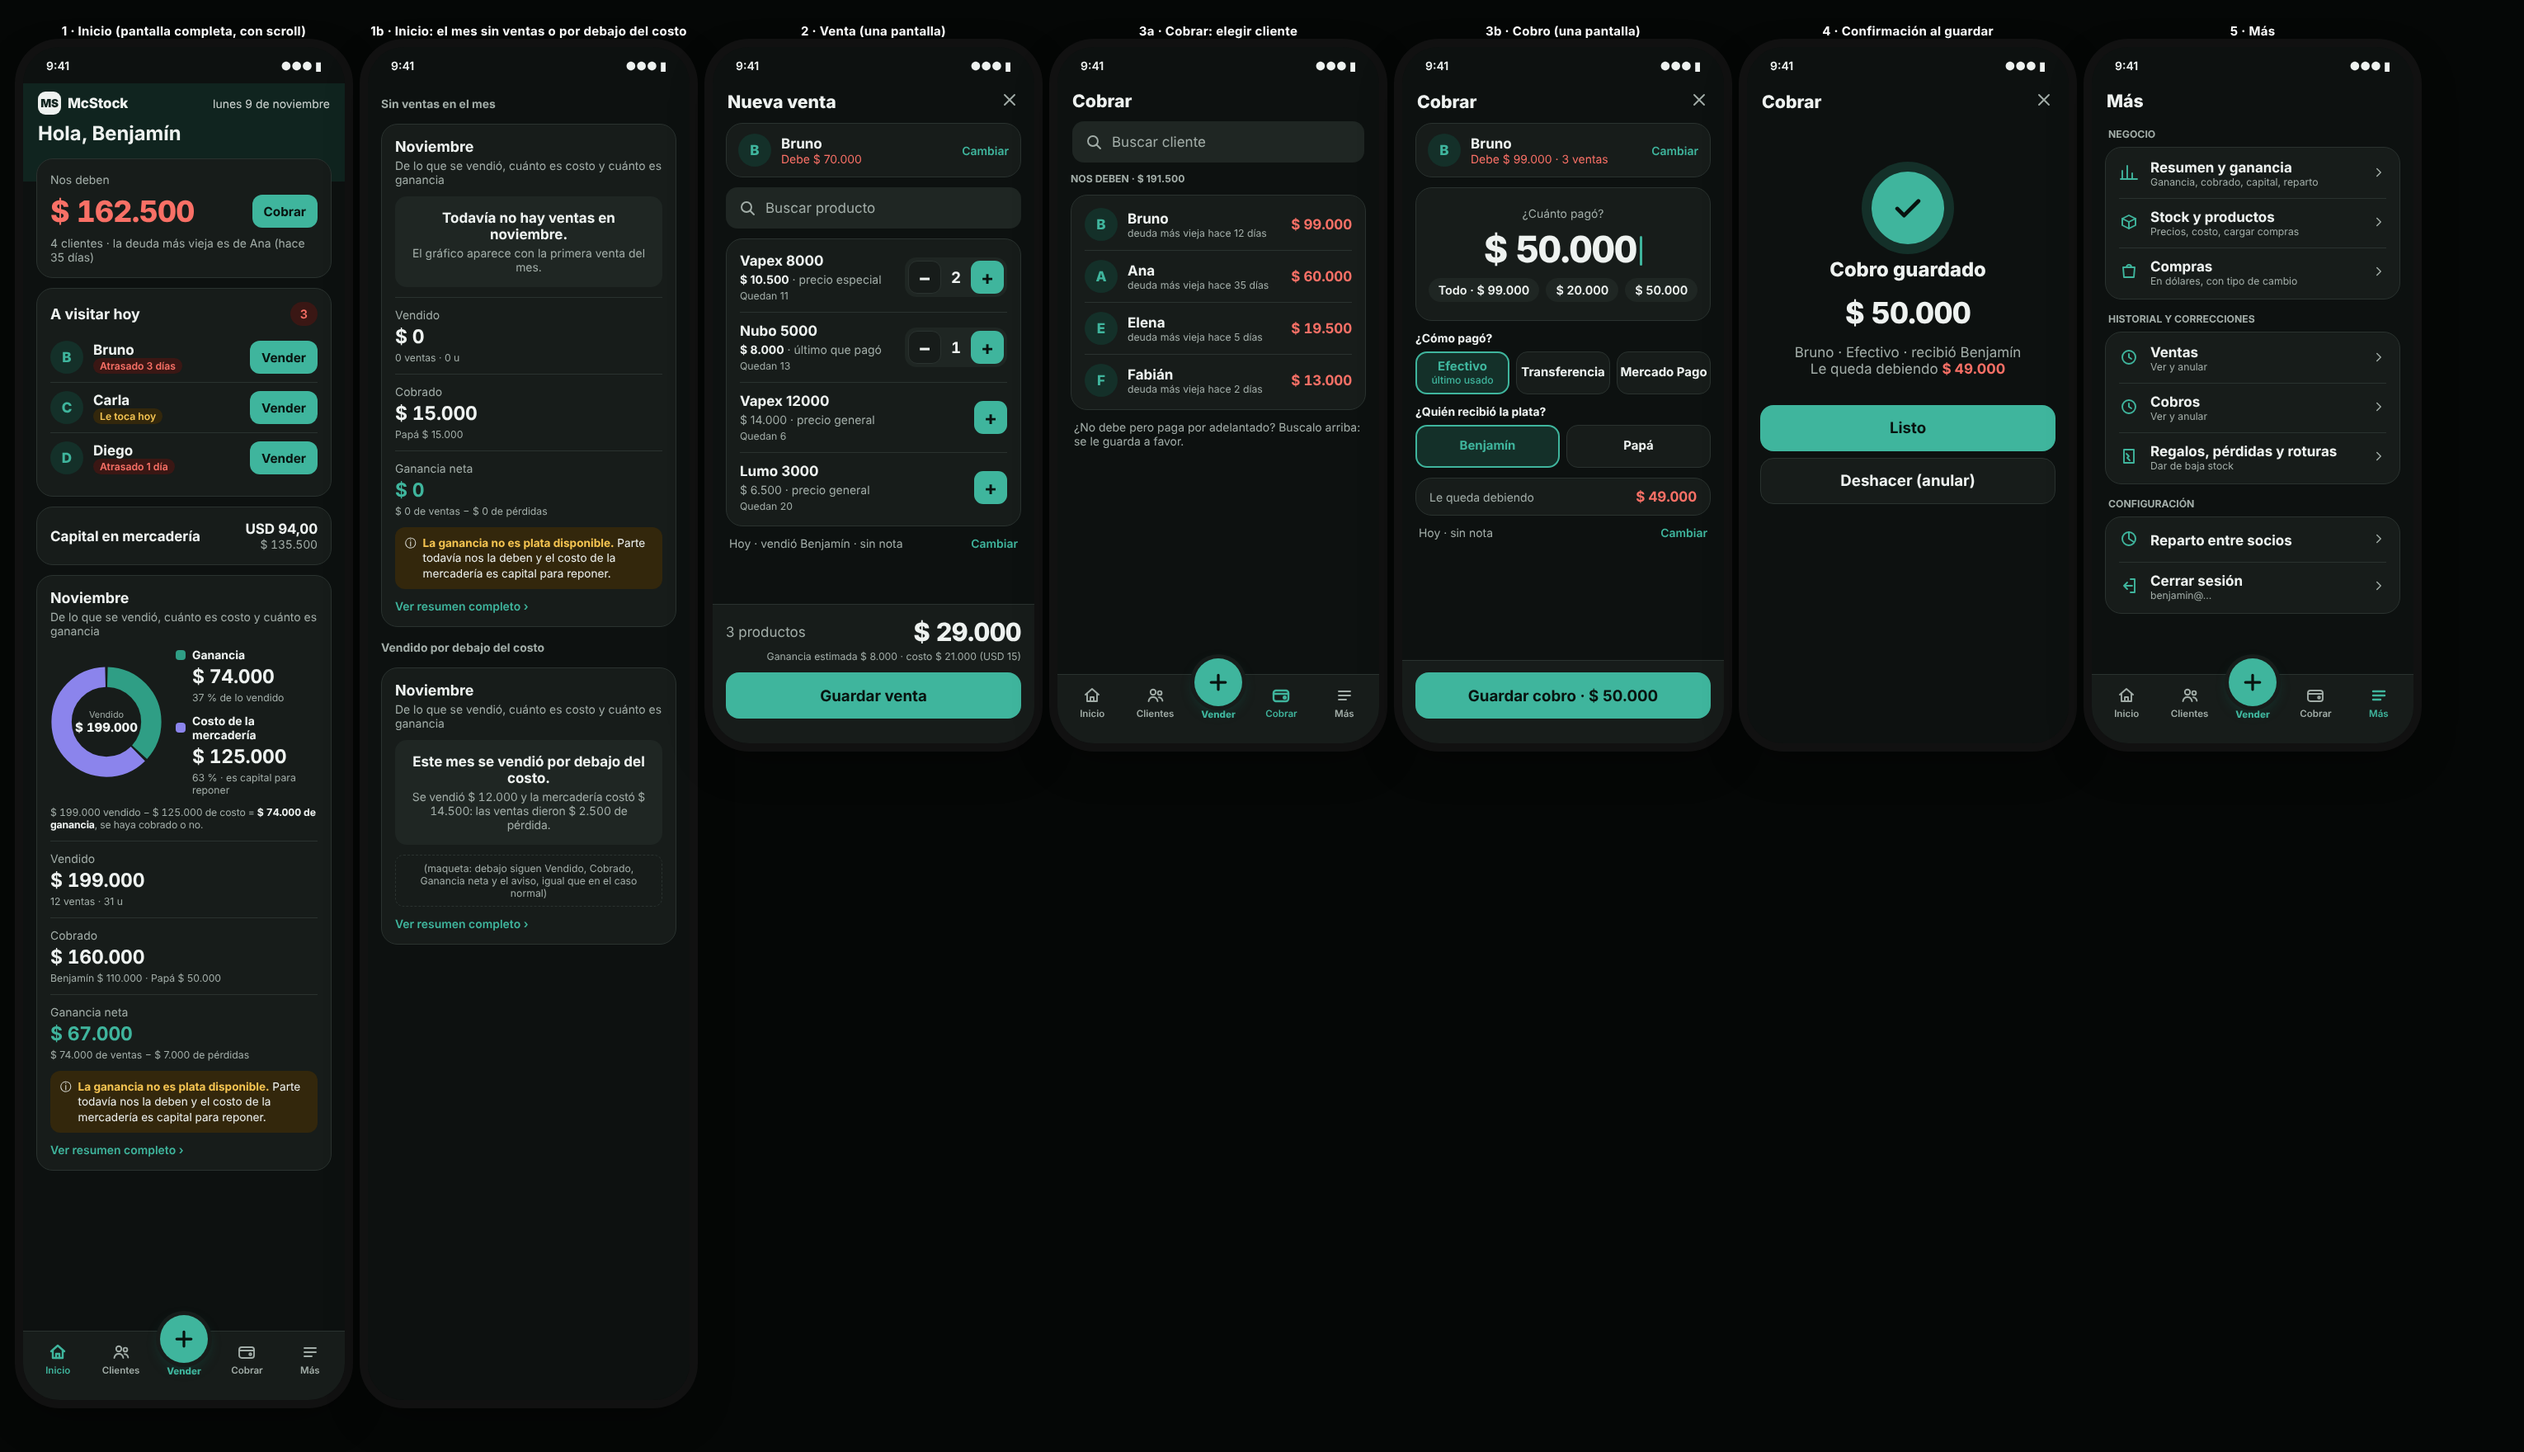
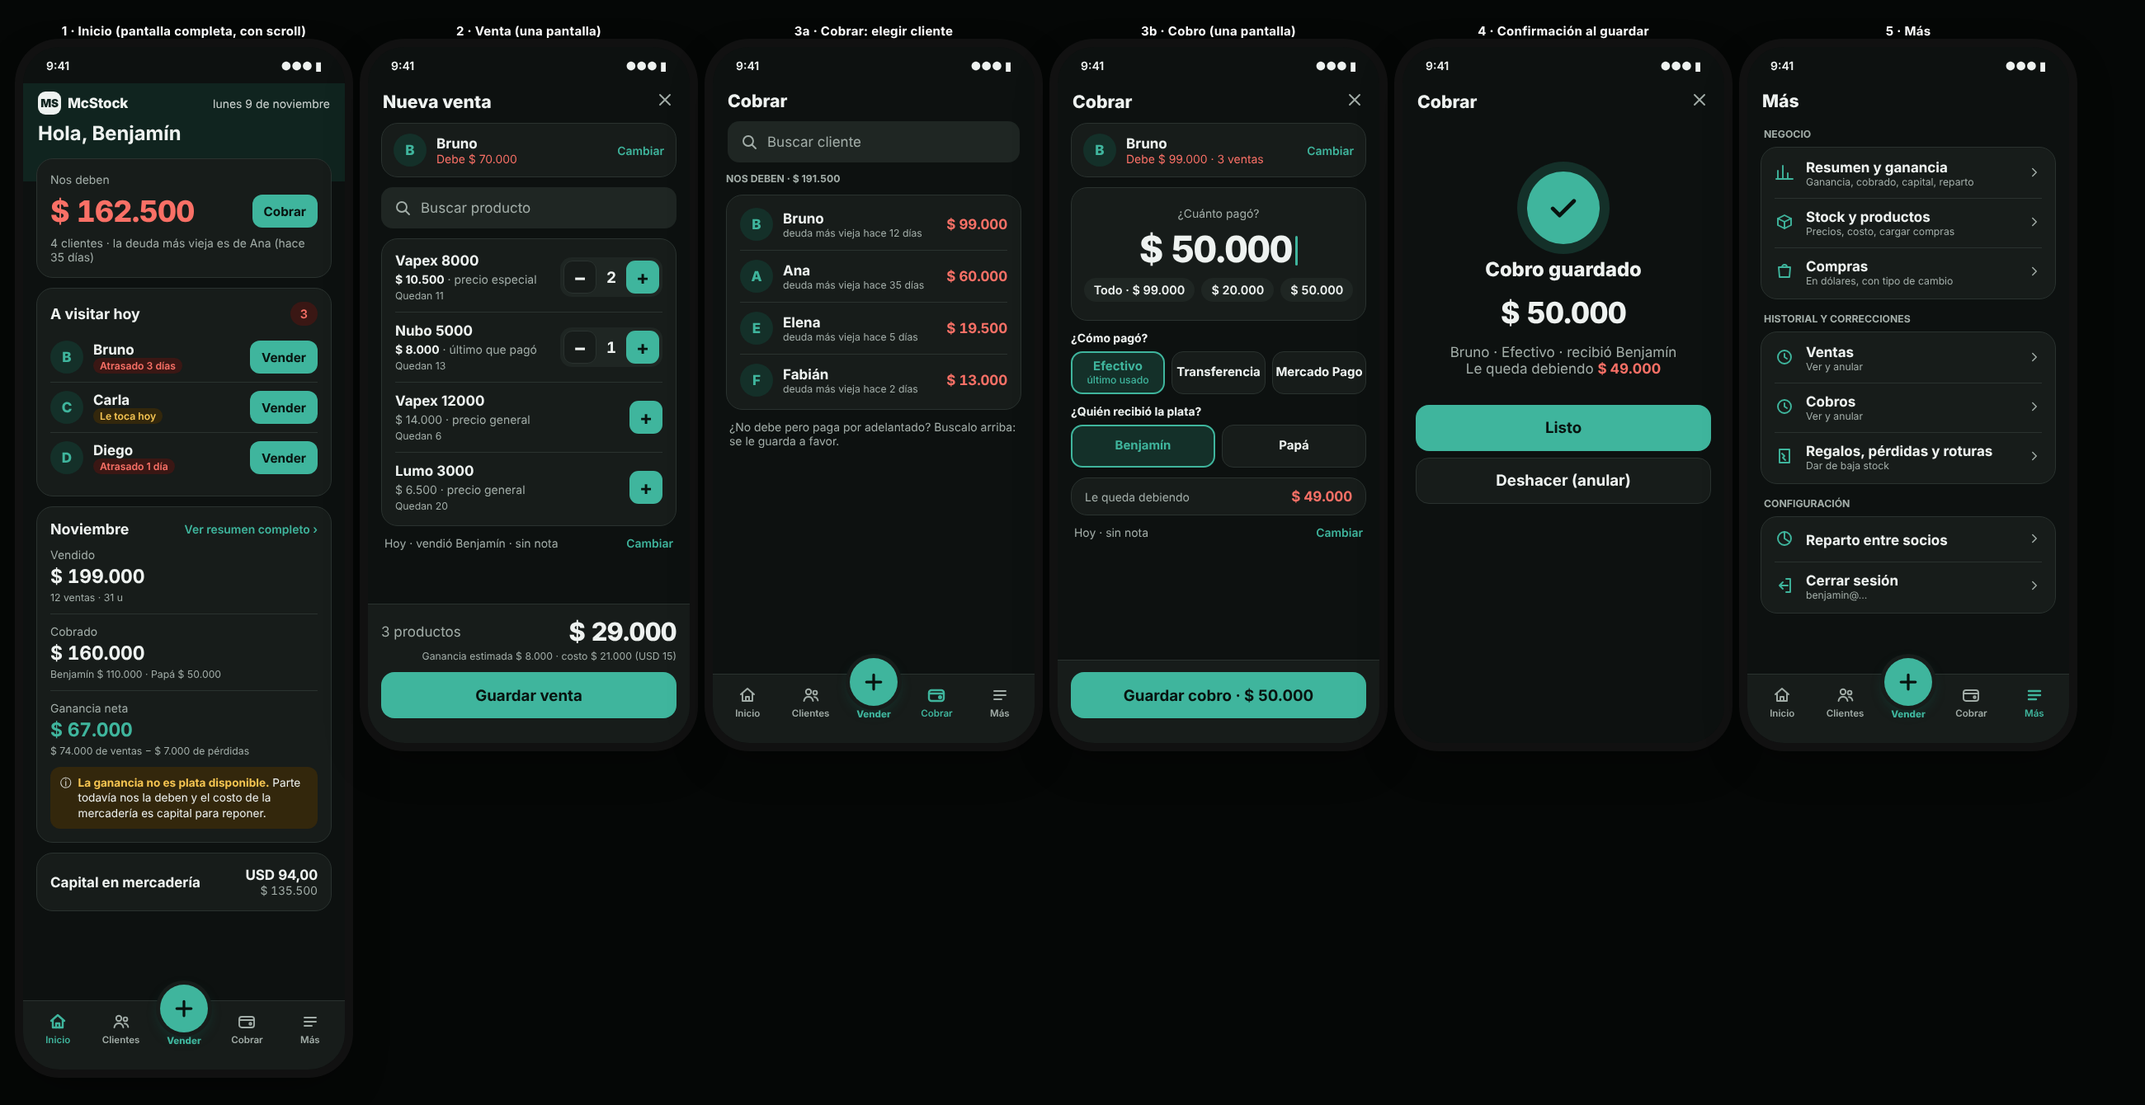
Revert "Maqueta: gráfico de torta del mes al final del Inicio (propuesta)"
This reverts commit 546a83cecc3bb18c9b77272293385d5588e639b8.

diff --git a/docs/maquetas/pantallas.js b/docs/maquetas/pantallas.js
@@ -47,32 +47,9 @@ function barraLateral(activo) {
 }
 
 // ------------------------------------------------------------------ Inicio
-// Torta "de lo vendido, cuánto es costo y cuánto ganancia" (pedido del 11/11/2026).
-// Dos porciones: ganancia de las ventas (vendido − costo) y costo de la mercadería. Números siempre escritos.
-function torta(ganancia, costo, tam) {
-  const total = ganancia + costo;
-  const pg = (ganancia / total) * 100;
-  const hueco = 0.8; // separación de 2px (aprox.) entre porciones, color de la tarjeta
-  const arco = (desde, largo, clase) =>
-    `<circle class="${clase}" cx="50" cy="50" r="40" pathLength="100" stroke-dasharray="${Math.max(largo - hueco, 0)} ${100 - Math.max(largo - hueco, 0)}" stroke-dashoffset="${-desde - hueco / 2}" transform="rotate(-90 50 50)"/>`;
-  return `<svg class="torta" viewBox="0 0 100 100" width="${tam}" height="${tam}" role="img" aria-label="De $ 199.000 vendidos, $ 74.000 son ganancia de las ventas (37 %) y $ 125.000 costo de la mercadería (63 %)">
-    ${arco(0, pg, "porcion-ganancia")}${arco(pg, 100 - pg, "porcion-costo")}
-    <text x="50" y="46" text-anchor="middle" class="torta-chico">Vendido</text>
-    <text x="50" y="59" text-anchor="middle" class="torta-num">$ 199.000</text>
-  </svg>`;
-}
-
-const leyendaTorta = `
-  <div class="col gap12" style="min-width:0">
-    <div class="col gap4"><span class="fila" style="justify-content:flex-start;gap:8px"><span class="muestra muestra-ganancia"></span><span class="chico fuerte">Ganancia</span></span>
-      <span class="medio num" style="padding-left:20px;white-space:nowrap">$ 74.000</span><span class="mini suave" style="padding-left:20px">37 % de lo vendido</span></div>
-    <div class="col gap4"><span class="fila" style="justify-content:flex-start;gap:8px"><span class="muestra muestra-costo"></span><span class="chico fuerte">Costo de la mercadería</span></span>
-      <span class="medio num" style="padding-left:20px;white-space:nowrap">$ 125.000</span><span class="mini suave" style="padding-left:20px">63 % · es capital para reponer</span></div>
-  </div>`;
-
-const cuentaTorta = `<span class="mini suave num">$ 199.000 vendido − $ 125.000 de costo = <b style="color:var(--texto)">$ 74.000 de ganancia</b>, se haya cobrado o no.</span>`;
-
-const numerosMes = (pc) => `
+const inicioResumen = (pc) => `
+  <div class="tarjeta col gap12">
+    <div class="fila"><span class="titulo">Noviembre</span><span class="enlace chico">Ver resumen completo ›</span></div>
     <div class="${pc ? "tres" : "col gap12"}">
       <div class="col gap4"><span class="suave chico">Vendido</span><span class="medio num">$ 199.000</span><span class="mini suave">12 ventas · 31 u</span></div>
       ${pc ? "" : '<div class="sep"></div>'}
@@ -80,48 +57,7 @@ const numerosMes = (pc) => `
       ${pc ? "" : '<div class="sep"></div>'}
       <div class="col gap4"><span class="suave chico">Ganancia neta</span><span class="medio num acento">$ 67.000</span><span class="mini suave">$ 74.000 de ventas − $ 7.000 de pérdidas</span></div>
     </div>
-    <div class="aviso"><span>ⓘ</span><span><b>La ganancia no es plata disponible.</b> Parte todavía nos la deben y el costo de la mercadería es capital para reponer.</span></div>`;
-
-const inicioResumen = (pc) => pc ? `
-  <div class="tarjeta col gap16">
-    <div class="col gap4"><span class="titulo">Noviembre</span><span class="chico suave">De lo que se vendió, cuánto es costo y cuánto es ganancia</span></div>
-    <div style="display:grid;grid-template-columns:auto 1fr 1.6fr;gap:28px;align-items:center">
-      ${torta(74000, 125000, 168)}
-      ${leyendaTorta}
-      <div class="col gap12">${numerosMes(true)}</div>
-    </div>
-    ${cuentaTorta}
-    <span class="enlace chico">Ver resumen completo ›</span>
-  </div>` : `
-  <div class="tarjeta col gap12">
-    <div class="col gap4"><span class="titulo">Noviembre</span><span class="chico suave">De lo que se vendió, cuánto es costo y cuánto es ganancia</span></div>
-    <div class="fila" style="justify-content:flex-start;gap:16px">${torta(74000, 125000, 136)}${leyendaTorta}</div>
-    ${cuentaTorta}
-    <div class="sep"></div>
-    ${numerosMes(false)}
-    <span class="enlace chico">Ver resumen completo ›</span>
-  </div>`;
-
-// Estados especiales de la sección (sin ventas, o ventas por debajo del costo): mensaje en vez de torta.
-const resumenSinVentas = `
-  <div class="tarjeta col gap12">
-    <div class="col gap4"><span class="titulo">Noviembre</span><span class="chico suave">De lo que se vendió, cuánto es costo y cuánto es ganancia</span></div>
-    <div class="vacio"><span class="fuerte">Todavía no hay ventas en noviembre.</span><span class="chico suave">El gráfico aparece con la primera venta del mes.</span></div>
-    <div class="sep"></div>
-    <div class="col gap12">
-      <div class="col gap4"><span class="suave chico">Vendido</span><span class="medio num">$ 0</span><span class="mini suave">0 ventas · 0 u</span></div><div class="sep"></div>
-      <div class="col gap4"><span class="suave chico">Cobrado</span><span class="medio num">$ 15.000</span><span class="mini suave">Papá $ 15.000</span></div><div class="sep"></div>
-      <div class="col gap4"><span class="suave chico">Ganancia neta</span><span class="medio num acento">$ 0</span><span class="mini suave">$ 0 de ventas − $ 0 de pérdidas</span></div>
-    </div>
     <div class="aviso"><span>ⓘ</span><span><b>La ganancia no es plata disponible.</b> Parte todavía nos la deben y el costo de la mercadería es capital para reponer.</span></div>
-    <span class="enlace chico">Ver resumen completo ›</span>
-  </div>`;
-const resumenBajoCosto = `
-  <div class="tarjeta col gap12">
-    <div class="col gap4"><span class="titulo">Noviembre</span><span class="chico suave">De lo que se vendió, cuánto es costo y cuánto es ganancia</span></div>
-    <div class="vacio"><span class="fuerte">Este mes se vendió por debajo del costo.</span><span class="chico suave num">Se vendió $ 12.000 y la mercadería costó $ 14.500: las ventas dieron $ 2.500 de pérdida.</span></div>
-    <span class="mini suave" style="border:1px dashed var(--borde);border-radius:10px;padding:8px;text-align:center">(maqueta: debajo siguen Vendido, Cobrado, Ganancia neta y el aviso, igual que en el caso normal)</span>
-    <span class="enlace chico">Ver resumen completo ›</span>
   </div>`;
 
 const aVisitar = `
@@ -150,9 +86,8 @@ function inicioMovil() {
       <span style="font-size:1.4rem;font-weight:750">Hola, Benjamín</span>
     </div>
     <div class="cuerpo col gap12" style="margin-top:-28px">
-      ${nosDeben}${aVisitar}
+      ${nosDeben}${aVisitar}${inicioResumen(false)}
       <div class="tarjeta fila"><span class="fuerte">Capital en mercadería</span><span class="col" style="align-items:flex-end"><span class="fuerte num">USD 94,00</span><span class="chico suave num">$ 135.500</span></span></div>
-      ${inicioResumen(false)}
     </div>
     ${barraInferior("inicio")}
   </div>`;
@@ -163,7 +98,7 @@ function inicioPc() {
     <div class="fila"><div class="col"><span class="suave chico">lunes 9 de noviembre</span><span style="font-size:1.6rem;font-weight:800">Hola, Benjamín</span></div>
       <div class="buscador" style="width:320px;background:var(--superficie);border:1px solid var(--borde)">${I.buscar}<span>Buscar cliente o producto</span></div></div>
     <div class="pc-grid">
-      <div class="col gap16">${nosDeben}
+      <div class="col gap16">${nosDeben}${inicioResumen(true)}
         <div class="tarjeta fila"><span class="fuerte">Capital en mercadería</span><span class="fila"><span class="fuerte num">USD 94,00</span><span class="suave num">$ 135.500</span></span></div>
       </div>
       <div class="col gap16">${aVisitar}
@@ -172,15 +107,7 @@ function inicioPc() {
         </div>
       </div>
     </div>
-    ${inicioResumen(true)}
   </main></div>`;
-}
-
-function estadosResumenMovil() {
-  return `<div class="pantalla" style="background:var(--fondo)"><div class="cuerpo col gap16" style="padding-top:16px">
-    <span class="chico suave fuerte">Sin ventas en el mes</span>${resumenSinVentas}
-    <span class="chico suave fuerte">Vendido por debajo del costo</span>${resumenBajoCosto}
-  </div></div>`;
 }
 
 // ------------------------------------------------------------------ Venta
@@ -318,5 +245,5 @@ function masMovil() {
   </div>`;
 }
 
-const MOVIL = { inicio: inicioMovil, "inicio-estados": estadosResumenMovil, venta: ventaMovil, "cobro-lista": cobroListaMovil, cobro: cobroMovil, guardado: guardadoMovil, mas: masMovil };
+const MOVIL = { inicio: inicioMovil, venta: ventaMovil, "cobro-lista": cobroListaMovil, cobro: cobroMovil, guardado: guardadoMovil, mas: masMovil };
 const PC = { inicio: inicioPc, venta: ventaPc, cobro: cobroPc };

diff --git a/docs/maquetas/base.css b/docs/maquetas/base.css
@@ -78,18 +78,3 @@ body { font-family: system-ui, -apple-system, "Segoe UI", Roboto, Arial, sans-se
 .logo { width: 28px; height: 28px; border-radius: 9px; background: var(--acento); color: var(--acento-texto); display: grid; place-items: center; font-size: .8rem; font-weight: 900; }
 svg.i { width: 24px; height: 24px; fill: none; stroke: currentColor; stroke-width: 1.9; stroke-linecap: round; stroke-linejoin: round; }
 .prueba { background: #f5c451; color: #1b1500; text-align: center; font-weight: 700; font-size: .7rem; padding: 4px 8px; }
-
-/* Gráfico de torta del Inicio (ganancia de las ventas / costo de la mercadería). Colores validados para
-   daltonismo y contraste ≥ 3:1 contra la tarjeta, cada tema con sus propios tonos. */
-:root { --graf-ganancia: #13866d; --graf-costo: #5d6ed8; }
-@media (prefers-color-scheme: dark) { :root { --graf-ganancia: #2f9e85; --graf-costo: #8b84ec; } }
-.torta { flex: none; }
-.torta circle { fill: none; stroke-width: 18; }
-.porcion-ganancia { stroke: var(--graf-ganancia); }
-.porcion-costo { stroke: var(--graf-costo); }
-.torta-chico { font-size: 8px; fill: var(--texto-suave); }
-.torta-num { font-size: 11px; font-weight: 800; fill: var(--texto); font-variant-numeric: tabular-nums; }
-.muestra { width: 12px; height: 12px; border-radius: 4px; flex: none; }
-.muestra-ganancia { background: var(--graf-ganancia); }
-.muestra-costo { background: var(--graf-costo); }
-.vacio { display: flex; flex-direction: column; gap: 4px; padding: 16px; border-radius: 14px; background: var(--superficie-2); text-align: center; }

diff --git a/docs/maquetas/movil.html b/docs/maquetas/movil.html
@@ -25,7 +25,7 @@ body{padding:28px;background:#9aa5a0}
 </style></head><body><div class="hoja" id="hoja"></div>
 <script src="pantallas.js"></script>
 <script>
-const tit={inicio:"1 · Inicio (pantalla completa, con scroll)","inicio-estados":"1b · Inicio: el mes sin ventas o por debajo del costo",venta:"2 · Venta (una pantalla)","cobro-lista":"3a · Cobrar: elegir cliente",cobro:"3b · Cobro (una pantalla)",guardado:"4 · Confirmación al guardar",mas:"5 · Más"};
+const tit={inicio:"1 · Inicio (pantalla completa, con scroll)",venta:"2 · Venta (una pantalla)","cobro-lista":"3a · Cobrar: elegir cliente",cobro:"3b · Cobro (una pantalla)",guardado:"4 · Confirmación al guardar",mas:"5 · Más"};
 const sel=(new URLSearchParams(location.search).get("p")||Object.keys(tit).join(",")).split(",");
-document.getElementById("hoja").innerHTML=sel.map(k=>`<div class="marco"><span class="rotulo">${tit[k]}</span><div class="telefono" style="${k.startsWith("inicio")?"height:1640px":""}"><div class="estado"><span>9:41</span><span>●●● ▮</span></div>${MOVIL[k]()}</div></div>`).join("");
+document.getElementById("hoja").innerHTML=sel.map(k=>`<div class="marco"><span class="rotulo">${tit[k]}</span><div class="telefono" style="${k==="inicio"?"height:1240px":""}"><div class="estado"><span>9:41</span><span>●●● ▮</span></div>${MOVIL[k]()}</div></div>`).join("");
 </script></body></html>

diff --git a/docs/maquetas/README.md b/docs/maquetas/README.md
@@ -32,14 +32,6 @@ Los números son **inventados** y no coinciden entre sí. En la app todo sale de
    medio de pago y quién recibió preseleccionados con el último usado, "Le queda debiendo" en vivo, Guardar.
 4. **Confirmación al guardar:** ✓ animado, monto y resumen, "Listo" y "Deshacer (anular)".
 5. **Más:** ver arriba.
-6. **Gráfico del mes en Inicio** (propuesta del 11/11/2026, **pendiente de aprobación**): el resumen del mes pasa a ser
-   la **última sección** del Inicio (en PC, a todo el ancho debajo de las dos columnas). Arriba, una **torta** con lo
-   vendido en el mes partido en **Ganancia** (vendido − costo de la mercadería) y **Costo de la mercadería**, con los
-   montos y porcentajes escritos al lado y la cuenta "$ vendido − $ costo = $ ganancia, se haya cobrado o no".
-   Debajo, como antes: Vendido, Cobrado, Ganancia neta, el aviso "La ganancia no es plata disponible" y
-   "Ver resumen completo ›". Sin ventas en el mes, o con ventas por debajo del costo, la torta se reemplaza por un
-   mensaje (pantalla `1b`). Colores de la torta (`--graf-ganancia`, `--graf-costo`) validados para daltonismo y
-   contraste en los dos temas.
 
 ## Decisiones de los socios (10/11/2026)
 1. La app pasa a llamarse **McStock**.
